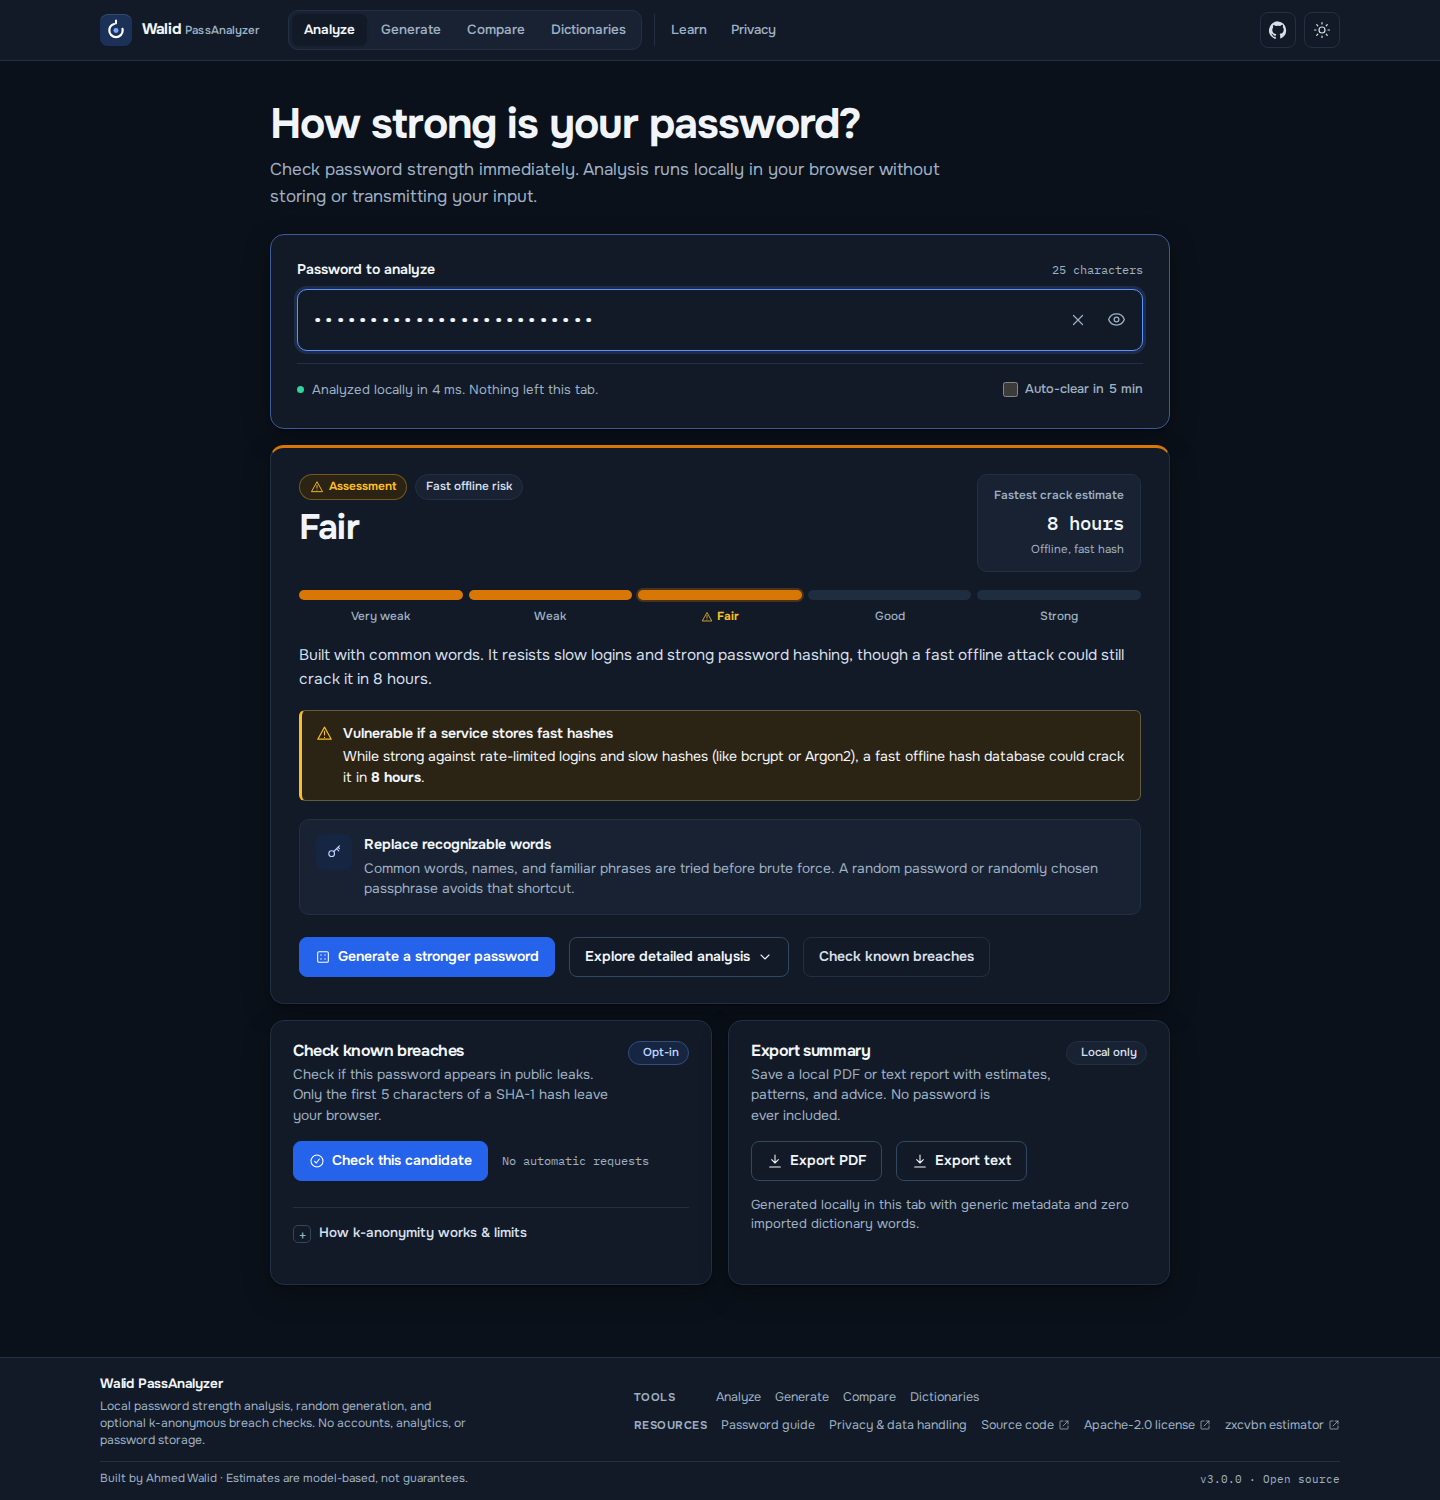
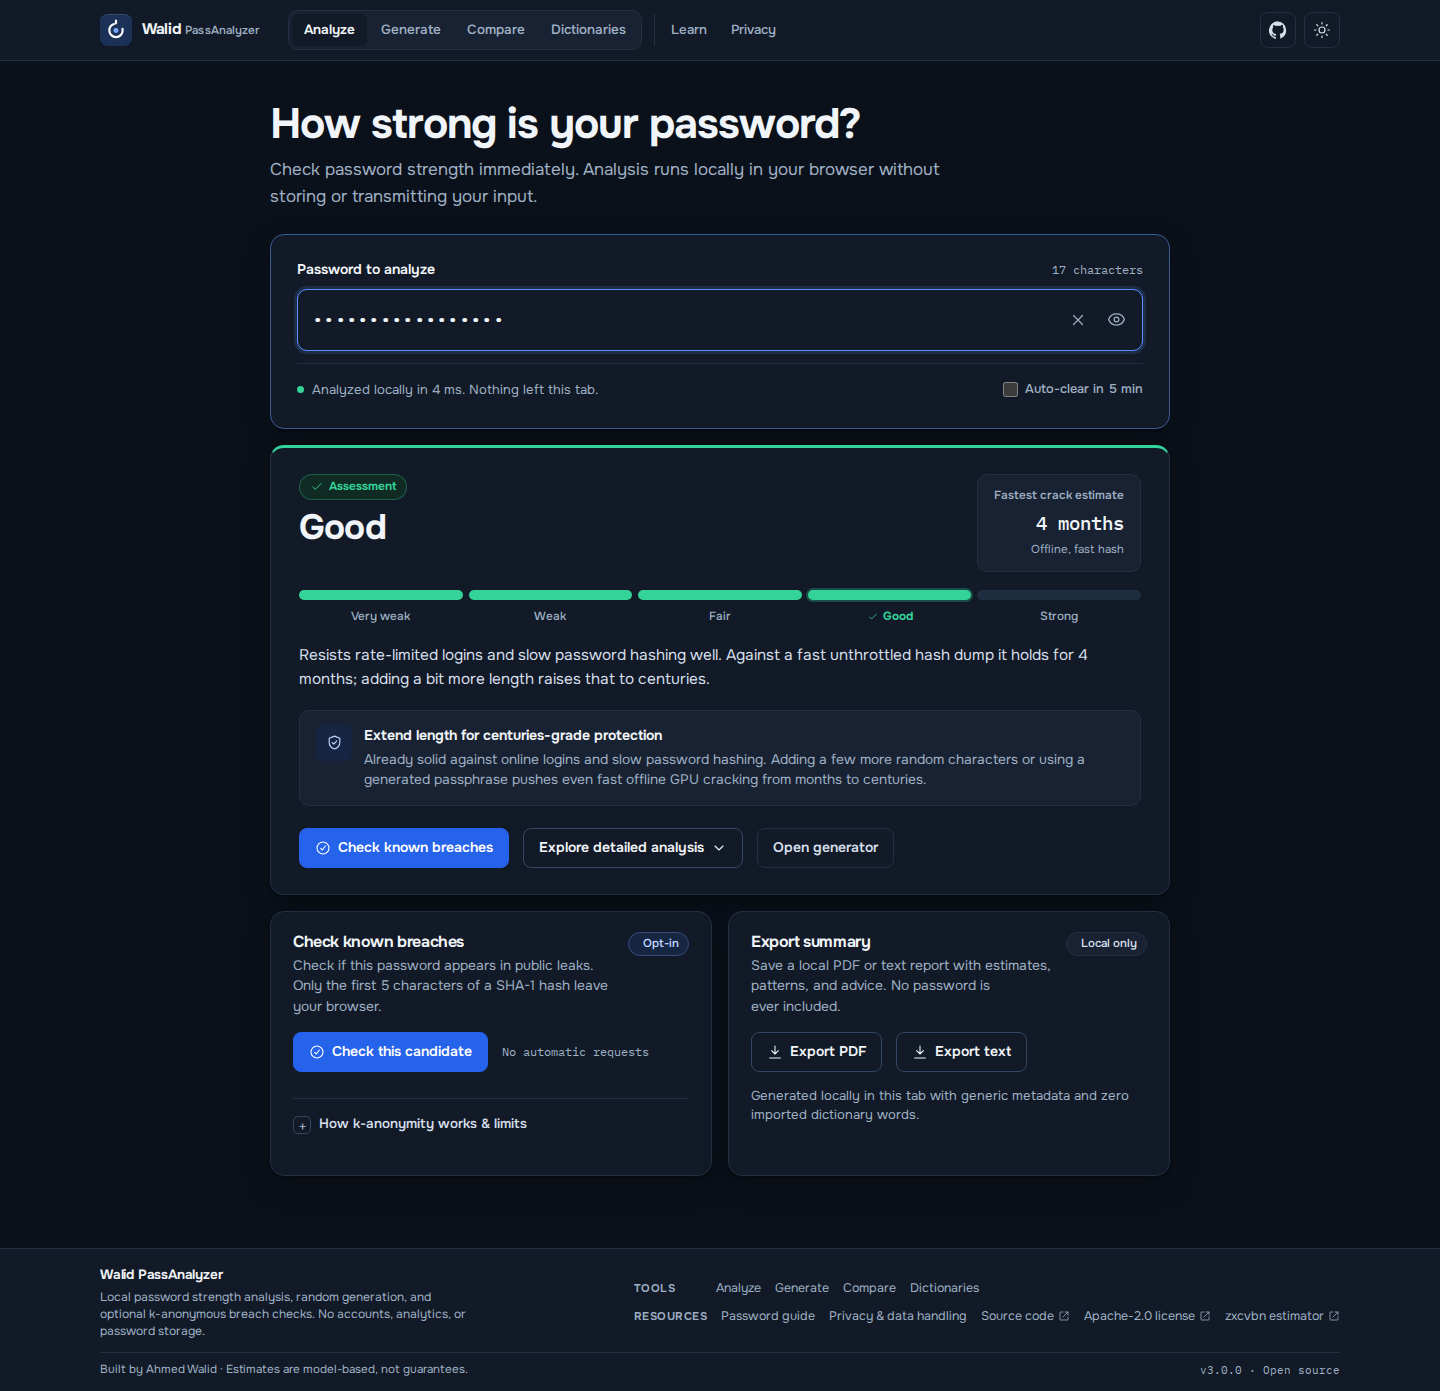
Update documentation screenshots and README for custom domain

diff --git a/README.md b/README.md
@@ -4,9 +4,29 @@ A local-first password instrument. It measures guessability, explains the patter
 
 The application is a static React/TypeScript site. There is no backend, account system, analytics script, or runtime CDN. All analysis and generation happen in the browser.
 
-**Design direction:** Signal & Ink. A warm paper canvas, deep petrol surfaces, a vermilion signal accent, editorial typography, and measurement-oriented data displays. The visual system is original to this project and is implemented with semantic CSS tokens rather than a component framework.
+**Live deployment:** [`https://passanalyzer.ahmeddwalid.me/`](https://passanalyzer.ahmeddwalid.me/)
+
+**Design direction:** Cobalt & Mineral Slate. A calm, dark-first desktop-utility aesthetic built around mineral slate surfaces, cobalt blue primary actions, semantic risk accents, `Onest Variable` typography, and `IBM Plex Mono` for timings and cryptographic readouts. The visual system is original to this project and implemented with semantic CSS tokens in light and dark themes rather than a component framework.
 
 ![Walid PassAnalyzer interface](docs/images/InterfaceScreenshot.png)
+
+## Screenshots
+
+- **Detailed breakdown & crack time estimates**
+
+  ![Detailed password analysis view](docs/images/DetailedAnalysisScreenshot.png)
+
+- **Cryptographic password generator**
+
+  ![Cryptographic password generator view](docs/images/GeneratorScreenshot.png)
+
+- **Light theme (`Good` assessment)**
+
+  ![Walid PassAnalyzer light theme](docs/images/LightThemeScreenshot.png)
+
+- **Mobile layout (`390px` viewport)**
+
+  <img src="docs/images/MobileScreenshot.png" alt="Walid PassAnalyzer mobile view" width="360" />
 
 ## What it does
 
@@ -129,7 +149,7 @@ npm ci
 npm run dev
 ```
 
-Open `http://localhost:5173/Walid-PassAnalyzer/`. The base path is configured in `vite.config.ts` and can be overridden with `VITE_BASE_PATH` if you are serving the app from a different path.
+Open `http://localhost:5173/`. The base path defaults to `/` in `vite.config.ts` for `https://passanalyzer.ahmeddwalid.me/` and can be overridden with `VITE_BASE_PATH` if you serve the app from a subdirectory.
 
 ### Scripts
 
@@ -158,13 +178,11 @@ The Playwright config starts the Vite server automatically and covers desktop an
 
 The production build uses:
 
-- Base path `/Walid-PassAnalyzer/`.
+- Custom domain [`https://passanalyzer.ahmeddwalid.me/`](https://passanalyzer.ahmeddwalid.me/) via `public/CNAME` and root `/` base path.
 - `public/.nojekyll` so GitHub Pages does not apply Jekyll processing.
 - A hash router, so no SPA fallback rewrite is required.
 - A static `404.html` for unknown non-hash paths.
-- `.github/workflows/deploy.yml`, which runs typecheck, lint, unit tests, and the production build, then publishes `dist/` through the official GitHub Pages actions.
-
-The workflow is configured but has not been run from this workspace. A production deployment requires a push to `main` or a manual workflow dispatch by the repository owner. The local `deploy` script exists for a manual `gh-pages` publish, but the Actions workflow is the recommended path.
+- `.github/workflows/deploy.yml`, which runs typecheck, lint, unit tests, and the production build, then publishes `dist/` through the official GitHub Pages actions on pushes to `main`.
 
 ## Verification performed
 
@@ -176,7 +194,7 @@ These are the commands that were actually executed during the redesign:
 - `npm run build` (passes; `scripts/verify-build.mjs` checks the CSP hash of the inline theme initializer and the hashed module entry)
 - `npx playwright test` (27 tests pass across desktop and mobile Chromium; one desktop skip for the mobile-only navigation case)
 - axe WCAG 2.2 scans in both light and dark themes (no violations on the six primary routes)
-- Production preview at `/Walid-PassAnalyzer/` with CSP, self-hosted fonts, real HIBP request, and PDF/text export checked
+- Production preview at `/` (`https://passanalyzer.ahmeddwalid.me/`) with CSP, self-hosted fonts, real HIBP request, and PDF/text export checked
 - Real Pwned Passwords range request: only the five-character prefix was observed
 - `npm audit --omit=dev`: zero known vulnerabilities
 
@@ -199,7 +217,7 @@ Walid PassAnalyzer is distributed under the [Apache License 2.0](LICENSE.txt).
 
 - [zxcvbn](https://github.com/dropbox/zxcvbn) is MIT-licensed.
 - The EFF Large and EFF Short wordlists are attributed to the Electronic Frontier Foundation under CC BY 3.0 US. Source links and license text are in `public/wordlists/` and in the in-app dictionary page.
-- Instrument Sans, Newsreader, and IBM Plex Mono are licensed under the SIL Open Font License. License files are in `public/fonts/`.
+- Onest Variable and IBM Plex Mono are licensed under the SIL Open Font License. License files are in `public/fonts/`.
 - Icons are drawn for this project as inline SVG paths and use the Heroicons visual conventions where applicable; no icon package is bundled.
 
 Built by Ahmed Walid.
